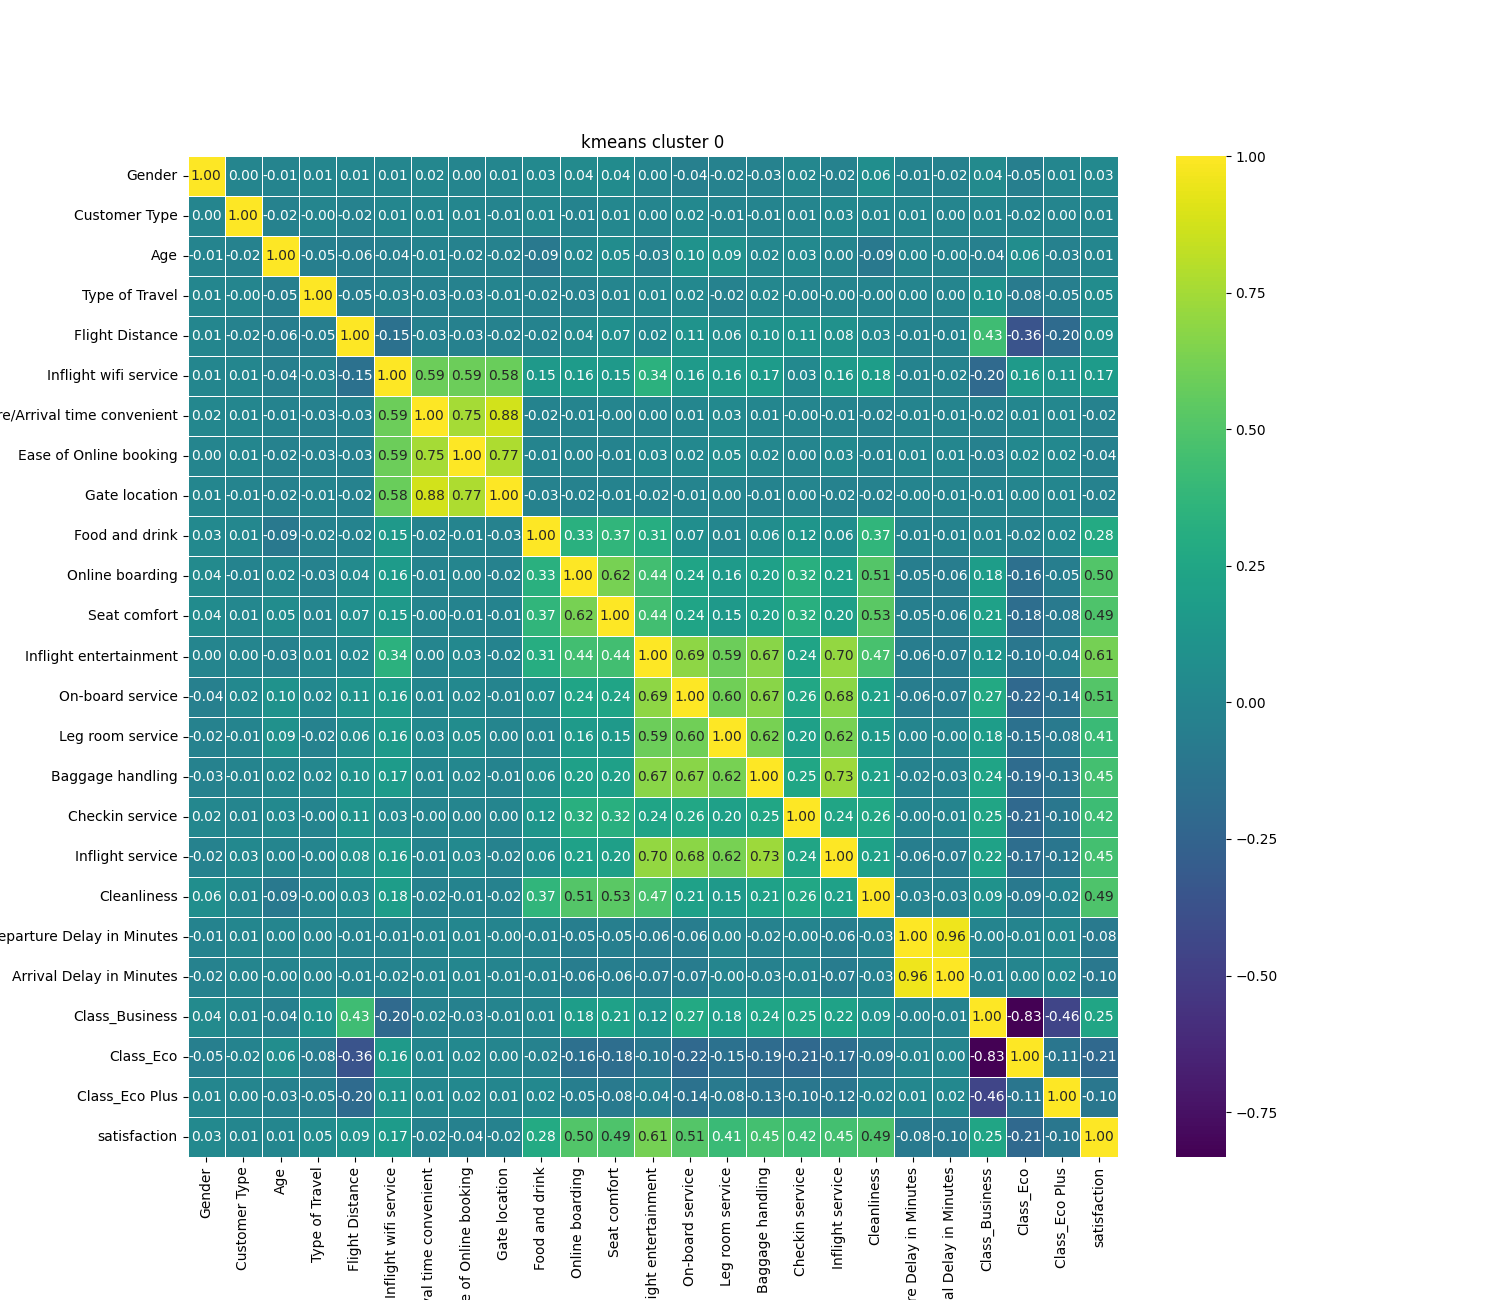
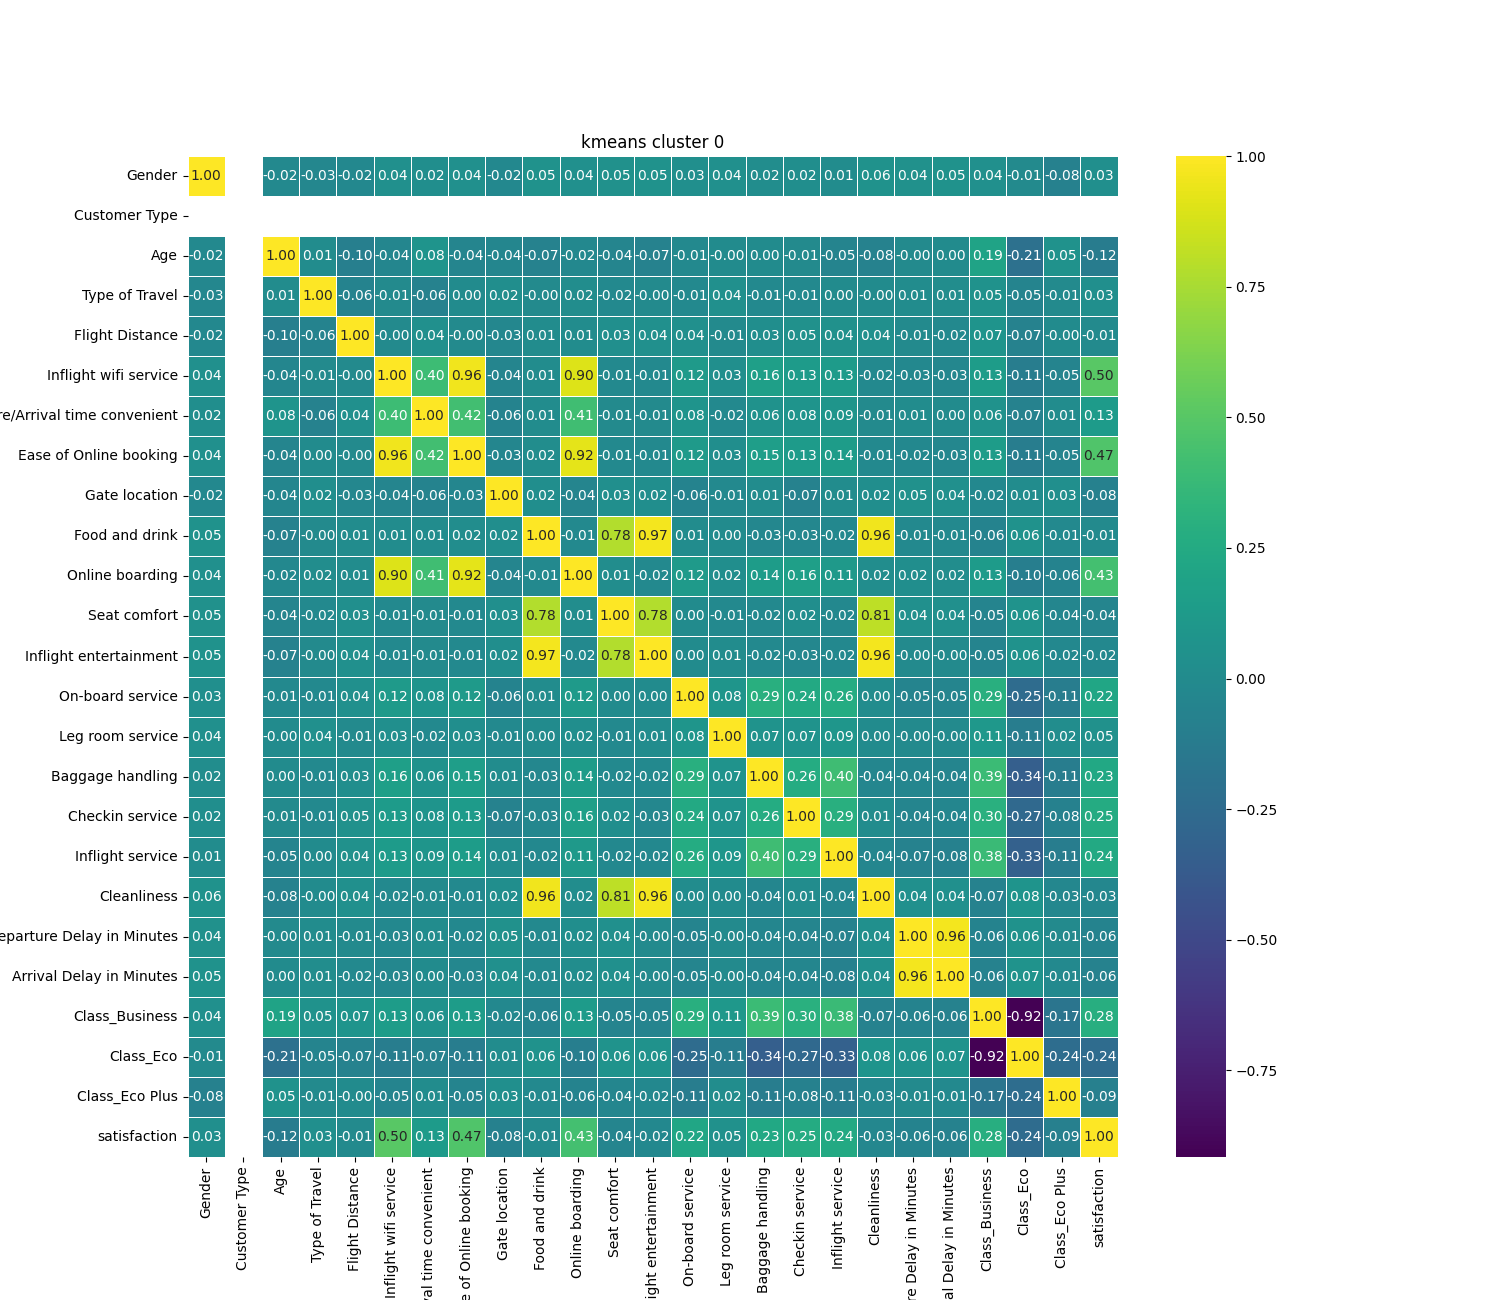
finished clustering report

diff --git a/clustering.py b/clustering.py
@@ -2,14 +2,10 @@ import pandas as pd
 import matplotlib.pyplot as plt
 from sklearn.decomposition import PCA
 from sklearn.cluster import KMeans
-from kmodes.kmodes import KModes
 from sklearn.preprocessing import StandardScaler
 from sklearn.preprocessing import MinMaxScaler
 import seaborn as sns
-
 from sklearn.metrics import silhouette_score
-from sklearn.feature_selection import VarianceThreshold
-from sklearn.neighbors import LocalOutlierFactor
 from sklearn.cluster import DBSCAN
 from kmodes.kprototypes import KPrototypes
 
@@ -57,7 +53,7 @@ def kmeans_dbscan_clusters(data):
         'Inflight wifi service',
         'Departure/Arrival time convenient',
         'Ease of Online booking',
-        # 'Gate location',
+        'Gate location',
         # 'Food and drink',
         # 'Online boarding',
         'Seat comfort',
@@ -79,7 +75,7 @@ def kmeans_dbscan_clusters(data):
     # get clustering
     num_kmeans_clusters = 3
     clustering_kmeans = KMeans(n_clusters=num_kmeans_clusters, init='k-means++').fit_predict(pca_data)
-    clustering_dbscan = DBSCAN(eps=2.1, min_samples=26, p=1).fit_predict(pca_data)
+    clustering_dbscan = DBSCAN(eps=2.1, min_samples=100).fit_predict(pca_data)
 
     # silhouette_scores
     score = silhouette_score(pca_data, clustering_kmeans)

diff --git a/output.py b/output.py
@@ -34,7 +34,7 @@ if __name__ == "__main__":
     # Perform Outlier Detection
     detect_outliers(dataset)
     
-    print('\n CLUTSERING \n ')
+    print('\n CLUSTERING \n ')
     # Perform Clustering
     cluster(dataset)
     

diff --git a/README.md b/README.md
@@ -73,7 +73,7 @@ Very similar results are evident in the type of travel; customers flying for bus
 <img src="Analysis/Figures/Type_of_Travel_Satisfaction_barplot.png" alt="Project Diagram" width="400"/>
 
 
-The heatmap also identifies a consistent correlation disparity between the different elements of a flight experience and airline classes as well. Business class typically positively correlates with a greater customer satisfaction in each service, and economy class typically negatively correlates. Moreover, the different categories of in-flight experience influence each other as well. For example, a higher satisfaction in flight cleanliness positively correlates moderately with satisfaction in the food a drink category.
+The heatmap also identifies a consistent correlation disparity between the different elements of a flight experience and airline classes as well. Business class typically positively correlates with a greater customer satisfaction in each service, and economy class typically negatively correlates. Moreover, the different categories of in-flight experience influence each other as well. For example, a higher satisfaction in flight cleanliness positively correlates moderately with satisfaction in the food a drink category. The common correlations of features may also pose a problem to the clustering task.
 
 ## Outlier Detection
 
@@ -90,6 +90,22 @@ Outlier detection is the removal of datapoints that signficantly deviate from th
 The results of each outlier detection method, although seemingly different in the visualization, were not particularily useful. Many of the points categorized as outliers appeared to belong to the inlier class, deep within the single cluster of data. The conclusion that we drew from this result was that the data had possible already been cleaned prior to our own preprocessing. Some of the chosen points appear to be on the edge of the cluster of data, but too many of the points are present deep in the cluster too label all of the selected points as noise. Adjusting contamination parameters did not improve performance either. We made the decision to not remove the chosen points from the dataset prior to the clustering and classifiaction tasks as there was not enough convincing edivdence that these points were majority noise.
 
 ## Clustering
+
+Clustering for this dataset was especially difficult. One of the problems with the dataset that our heatmap uncovered during the EDA task was that much of the data was in some way correlated. Correlated data is bad for clustering algorithms – it negatively impacts data in such a way that makes it difficult for clustering tasks to distinguish meaningful groupings of data. In order to get valuable results from this (preprocessed) dataset, we had to manually select groupings of features that were not correlated using pandas' drop function. The more columns we dropped, the higher the silhouette scores would be, but we did not want to drop too many features in fear of losing information. Even after dropping several columns of data, the silhouette score functions were not reporting promising results. 
+
+We tested clustering using many diffrent models, but settled on KMeans and DBSCAN as they were outputting the highest silhouette scores. Prior to running each clustering algorithm, we first scaled the data using sklearn's standardScalar function. This is done so that the data can be effectively visualized within a common range, and also because both KMeans and DBSCAN use distance metrics to cluster objects together. In Kmeans Clustering, the hyperparameters were set as n_cluster=3 and init='kmeans'++. 3 clusters was yielding the highest silhouette scores, and we felt that kmeans++ was more optimal over random initialization. For DBSCAN, hyperparameter eps was set to 2.1 and min_samples was set to 100. These hyperparameters were determined expirimentally. Following clutsering, the dimensionality of the data was reduced to 2 using PCA for visualization purposes:
+
+### KMeans:
+<img src="Analysis/Figures/kmeans.png" alt="Project Diagram" width="400"/>
+
+### DBSCAN:
+<img src="Analysis/Figures/dbscan.png" alt="Project Diagram" width="400"/>
+
+The sillhouete scores for KMeans and DBSCAN were very close, typically both around 0.210. This score is not terrible, but it is very weak. When we add back the clustering results of KMeans to the preoprocessed data prior to dropping features, we can determine trends by assessing the mean and median values of each feature within each cluster.
+
+ Looking at the printed results, we find that the largest mean proportion of satisfied customers (73%) lies within the cluster of which the majority of customers belong to business class (78%). This is unsurprising, given that in our heatmap and other analysis from EDA, we discovered a strong relationship between airline class and satisfaction. Within this same cluster is also almost entirely comprised of loyal customers, who are typically older and fly greater distances than the other clusters. It would seem that from this data, that older, long distance business class fliers are for the most part, satisfied with their service. 
+
+ On the other hand, another cluster the same proportion of loyal customers (nearly 100%) as our previously discussed clusters, but only has rougly 11% of its customers satisfied! 80% of these customers are in the economy class, 12% are in economy plus, and the final 8% of customers are business class. Even if all of those 10% satisfied customers came from the economy class, that would still mean that 70% of loyal economy class fliers will return to this particular airline despite their dissatisfaction. This is quite a valuable finding! It means that loyal economy fliers do not need to be satisfied in order to return to this using this airline. We cannot be certain as to why, but we know that the satisfaction of economy class fliers is not as important as that of the business class fliers.
 
 ## Feature selection
 
